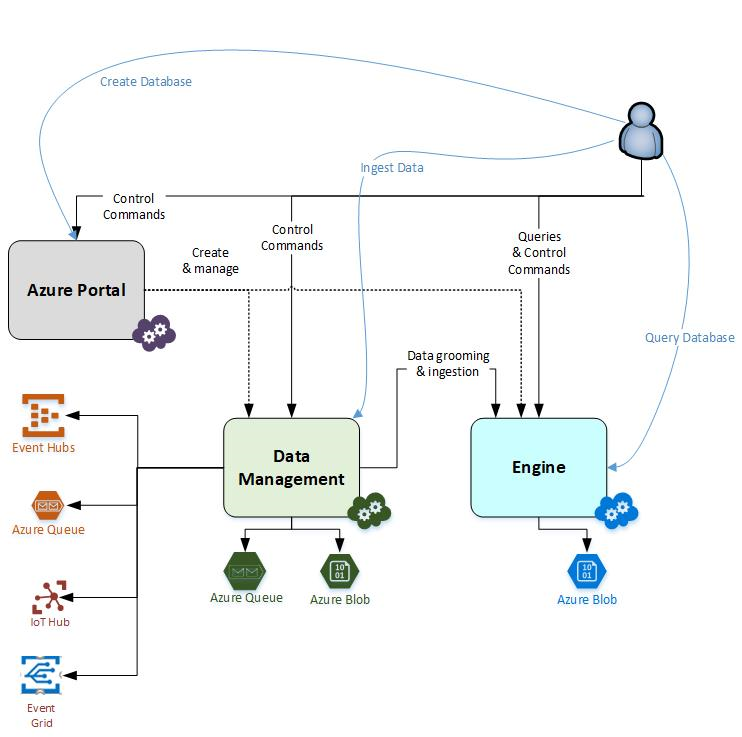
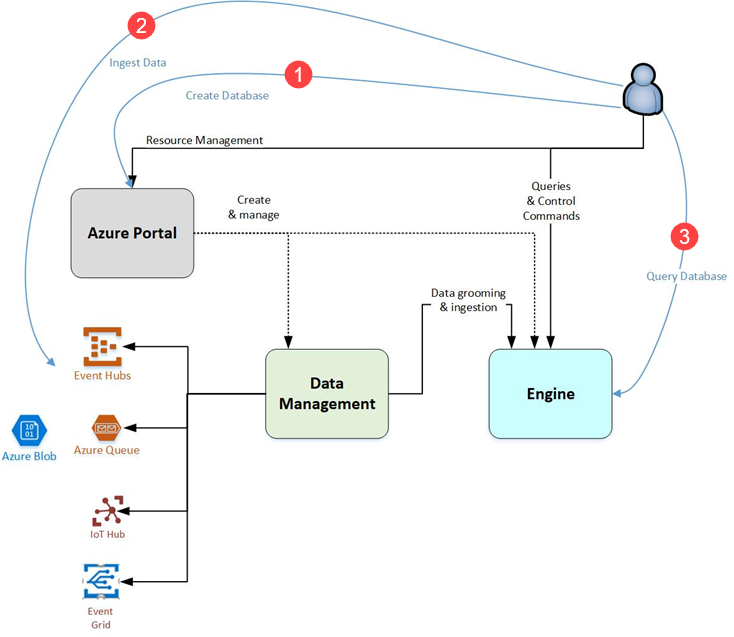
Add overview article

diff --git a/data-explorer/data-explorer-overview.md b/data-explorer/data-explorer-overview.md
@@ -1,0 +1,70 @@
+---
+title: What is Azure Data Explorer?
+description: Azure Data Explorer is a fast and highly scalable data exploration service for log and telemetry data.
+services: data-explorer
+author: mgblythe
+ms.author: mblythe
+ms.reviewer: mblythe
+ms.service: data-explorer
+ms.topic: overview
+ms.date: 09/24/2018
+
+#Customer intent: As a data analyst, I want to understand Azure Data Explorer, so I can decide if it's suitable for my analytics workloads.
+---
+
+# What is Azure Data Explorer?
+
+Azure Data Explorer is a fast and highly scalable data exploration service for log and telemetry data. It helps you to manage the many data streams emitted by modern software, so you can collect, store, and analyze data. Azure Data Explorer is ideal for analyzing large volumes of diverse data from any data source, such as websites, applications, and IoT devices. This data is used for diagnostics, monitoring, reporting, machine learning, and additional analytics capabilities. Azure Data Explorer makes it simple to ingest this data and enables you to perform complex ad-hoc queries on the data in seconds.
+
+## What makes Azure Data Explorer unique?
+
+- Supplies quick scaling to terabytes of data, in minutes, allowing rapid iterations of data exploration to discover relevant insights.
+- Offers an innovative query language, optimized for high performance data analytics.
+- Supports analysis of high volumes of heterogeneous data (structured and unstructured).
+- Provides the ability to build and deploy exactly what you need by combining with other services to supply an encompassing, powerful and interactive data analytics solution.
+
+## Data warehousing workflow
+
+Azure Data Explorer integrates with other major services to provide an end-to-end solution that includes data collection, ingestion, storage, indexing, querying, and visualization. It has a pivotal role in the data warehousing flow by executing the **EXPLORE** step of the flow on terabytes of diverse raw data.
+
+![Data warehouse diagram](media/data-explorer-overview/data-warehouse.png)
+
+Azure Data Explorer supports several ingestion methods, including connectors to common services like Event Hub, programmatic ingestion using SDKs, such as .NET and Python, and direct access to the engine for exploration purposes. Azure Data Explorer integrates with analytics and modeling services for additional analysis and visualization of data.
+
+## Azure Data Explorer flow
+
+The following diagram shows the different aspects of working with Azure Data Explorer.
+
+![Azure Data Explorer flow](media/data-explorer-overview/workflow.png)
+
+Work in Azure Data Explorer generally follows this pattern:
+
+1. **Create database:** Create a *cluster* and then create one or more *databases* in that cluster. [Quickstart: Create an Azure Data Explorer cluster and database](create-cluster-database-portal.md)
+
+1. **Ingest data:** Load data into database tables so that you can run queries against it. [Quickstart: Ingest data from Event Hub into Azure Data Explorer](ingest-data-event-hub.md)
+
+1. **Query database:** Use our web application to run, review and share queries and results. It is available in the Azure portal and as a stand-alone application. In addition, you can send queries programmatically (using an SDK) or to a REST API endpoint. [Quickstart: Query data in Azure Data Explorer](web-query-data.md)
+
+## Query experience
+
+A query in Azure Data Explorer is a read-only request to process data and return the results of this processing, without modifying the data or metadata. You continue refining your queries until you have completed your analysis. Azure Data Explorer makes this process easy because of its very fast ad-hoc query experience.
+
+Azure Data Explorer handles large amounts of structured, semi-structured (JSON-like nested types) and unstructured (free-text) data equally well. It allows you to search for specific text terms, locate particular events, and perform metric-style calculations on structured data. Azure Data Explorer bridges the worlds of unstructured text logs and structured numbers and dimensions by extracting values in runtime from free-form text fields. Data exploration is simplified by combining fast text indexing, column store, and time series operations.
+
+Azure Data Explorer capabilities are extended by other services built on its powerful query language, including [Log Analytics](../log-analytics/), [Application Insights](../application-insights/), [Time Series Insights](../time-series-insights/), and [Windows Defender Advanced Threat Protection](/windows/security/threat-protection/windows-defender-atp/windows-defender-advanced-threat-protection/).
+
+## Feedback
+
+We would be thrilled to hear your feedback regarding Azure Data Explorer and its query language at:
+
+- [Ask questions on the forum MSDN](https://social.msdn.microsoft.com/Forums/en-US/home?forum=AzureKusto)
+
+- [Make product suggestion in User Voice](http://aka.ms/kustouservoice)
+
+## Next steps
+
+[Quickstart: Create an Azure Data Explorer cluster and database](create-cluster-database-portal.md)
+
+[Quickstart: Ingest data from Event Hub into Azure Data Explorer](ingest-data-event-hub.md)
+
+[Quickstart: Query data in Azure Data Explorer](web-query-data.md)

diff --git a/data-explorer/ingest-data-overview.md b/data-explorer/ingest-data-overview.md
@@ -12,7 +12,7 @@ ms.date: 09/24/2018
 
 # Azure Data Explorer data ingestion
 
-Data ingestion is the process used to load data records from one or more sources to create or update a table in Azure Data Explorer. Once ingested, the data becomes available for query. The diagram below shows the end-to-end flow for working in Azure Data Explorer, including data ingestion.
+Data ingestion is the process used to load data records from one or more sources to create or update a table in Azure Data Explorer. Once ingested, the data becomes available for query. The diagram below shows the end-to-end flow for working in Azure Data Explorer, including data ingestion **(2)**.
 
 ![Overall data flow](media/ingest-data-overview/overall-data-flow.png)
 
